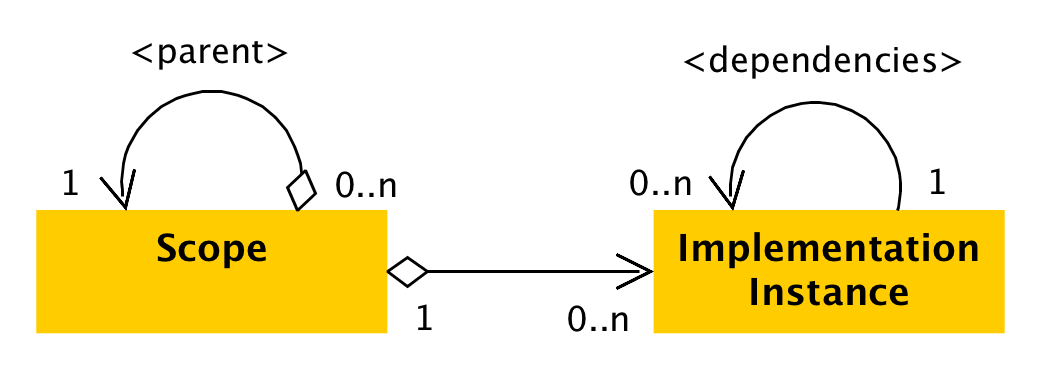
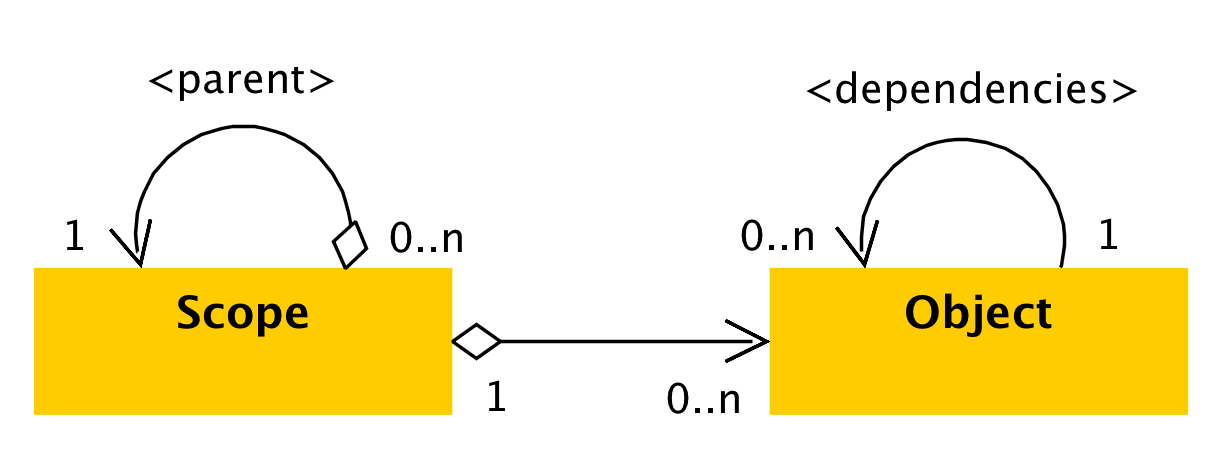
Updating documentation (#27)
* Updating design class diagram

* Update README.md

* Update README.md

* Update README.md

diff --git a/README.md b/README.md
@@ -11,17 +11,18 @@ Magnet implements annotation processor which analyses your code and generates ea
 Magnet does not use reflection for objects creation. It generates and uses factories instead. By doing this Magnet stays fast and easy to debug. It also provides a very simple DSL when used with Kotlin. Magnet classes are well documented and covered by unit tests.
 
 # Design
-Magnet has a very minimalistic, almost naive, design. It deals with two concepts - `scopes` and `implementations`. The whole design can be described by just three simple rules:
+Magnet has a very minimalistic, almost naive, design. It deals with two concepts - `Scopes` and `Objects`. The whole design can be described by just four simple statements:
 
-1. `Scopes` are containers for `implementation` instances.
+1. `Scopes` are containers for `Objects`.
 2. `Scopes` can build up hierarchies.
-3. `Implementations` can depend on each other.
+2. `Objects` can be put into (bound) and taken from `Scopes`.
+3. `Objects` can depend on each other.
 
 <img src="documentation/images/design-diagram.png" width="480" />
 
 # Getting started
 
-1. Initializing Magnet. This step has to be done once for the main application module only. It allows Magnet to find all implementations located in main and library modules, which makes dependency inversion between modules possible.
+1. Initializing Magnet - create an empty marker interface in your main application module and annotate it. This allows Magnet to find all implementations located in either main or library modules, which makes [dependency inversion][1] between modules possible.
 
 ```kotlin
 @Magnetizer
@@ -54,7 +55,7 @@ class Presenter(private val repository: Repository) {
 }
 ```
 
-3. Create scope and inject objects.
+3. Create root scope and create objects.
 
 ```kotlin
 val root = Magnet.createScope()
@@ -63,13 +64,14 @@ val presenter = root.getSingle<Presenter>()
 presenter.presentHelloMessage()
 ```
 
-Magnet will create `Presenter` and `Repository` objects for you. 
+Magnet will create `Presenter` and `Repository` objects for you. `Repository` instance will be injected into `Presenter`'s constructor automatically.
 
 # Documentation
 
-1. Additional documentation and examples can be found in Javadoc.
-2. [Dependency inversion][1]
-3. [Dependency auto-scoping][2]
+1. Check out sample application to see Magnet in action.
+2. Additional documentation and examples can be found in Javadoc.
+3. [Dependency inversion][1]
+4. [Dependency auto-scoping][2]
 
 # Gradle
 
